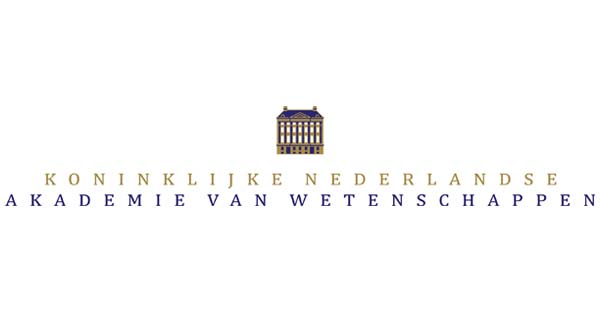
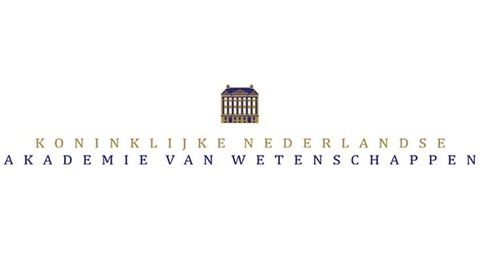
Deploy www.computationalpathologygroup.eu to github.com/diagnijmegen/website-pathology.git:master

diff --git a/highlights/knaw-litjens/index.html b/highlights/knaw-litjens/index.html
@@ -276,8 +276,8 @@
         </div>
 
         <div class="col-md-8">
-            <p>Together with twelve other young talented scientist, <a href="https://www.computationalpathologygroup.eu/members/geert-litjens/">Geert Litjens</a> got awarded the <a href="https://www.knaw.nl/en/awards/awards/knaw-early-career-award/knaw-early-career-award">Early Career Award </a> from the Koninklijke Nederlandse Akademie van Wetenschappen <a href="https://www.knaw.nl/en">(KNAW)</a>. The award is intended as an encouragement and financial support for PhD graduates with innovative ideas to spent on their own research careers. Geert Litjens received the award for his outstanding work on the development and application of artifical neural networks for cancer detection, segmentation and grading in histopathologic slides.<br/>
-The Awards will be presented during a celebratory gathering of the Academy in the first quarter of 2020.</p>
+            <p>Together with twelve other young talented scientist, <a href="https://www.computationalpathologygroup.eu/members/geert-litjens/">Geert Litjens</a> got awarded the <a href="https://www.knaw.nl/en/awards/awards/knaw-early-career-award/knaw-early-career-award">Early Career Award </a> from the Koninklijke Nederlandse Akademie van Wetenschappen <a href="https://www.knaw.nl/en">(KNAW)</a>. The award is intended as an encouragement and financial support for PhD graduates with innovative ideas to spent on their own research careers. Geert Litjens received the award for his outstanding work on the development and application of artifical neural networks for cancer detection, segmentation and grading in histopathologic slides.  </p>
+<p>The Awards will be presented during a celebratory gathering of the Academy in the first quarter of 2020.</p>
 
 	    <a href="https://www.computationalpathologygroup.eu/highlights" class="mt-5">&larr; Back to overview</a>
         </div>

diff --git a/author/webteamdiag.html b/author/webteamdiag.html
@@ -263,7 +263,7 @@
     <article class="row article-summary">
 
         <div class="col-md-3 article-image">
-            <img class="img-thumbnail lazyload" alt="KNAW Early Career Award for Geert Litjens" src="https://www.computationalpathologygroup.eu/images/news/knaw.jpg">
+            <img class="img-thumbnail lazyload" alt="KNAW Early Career Award for Geert Litjens" src="https://www.computationalpathologygroup.eu/images/news/knaw-320.jpg">
         </div>
 
         <div class="col-md-9 article-text">

diff --git a/highlights/index.html b/highlights/index.html
@@ -264,7 +264,7 @@
     <article class="row article-summary">
 
         <div class="col-md-3 article-image">
-            <img class="img-thumbnail lazyload" alt="KNAW Early Career Award for Geert Litjens" src="https://www.computationalpathologygroup.eu/images/news/knaw.jpg">
+            <img class="img-thumbnail lazyload" alt="KNAW Early Career Award for Geert Litjens" src="https://www.computationalpathologygroup.eu/images/news/knaw-320.jpg">
         </div>
 
         <div class="col-md-9 article-text">
